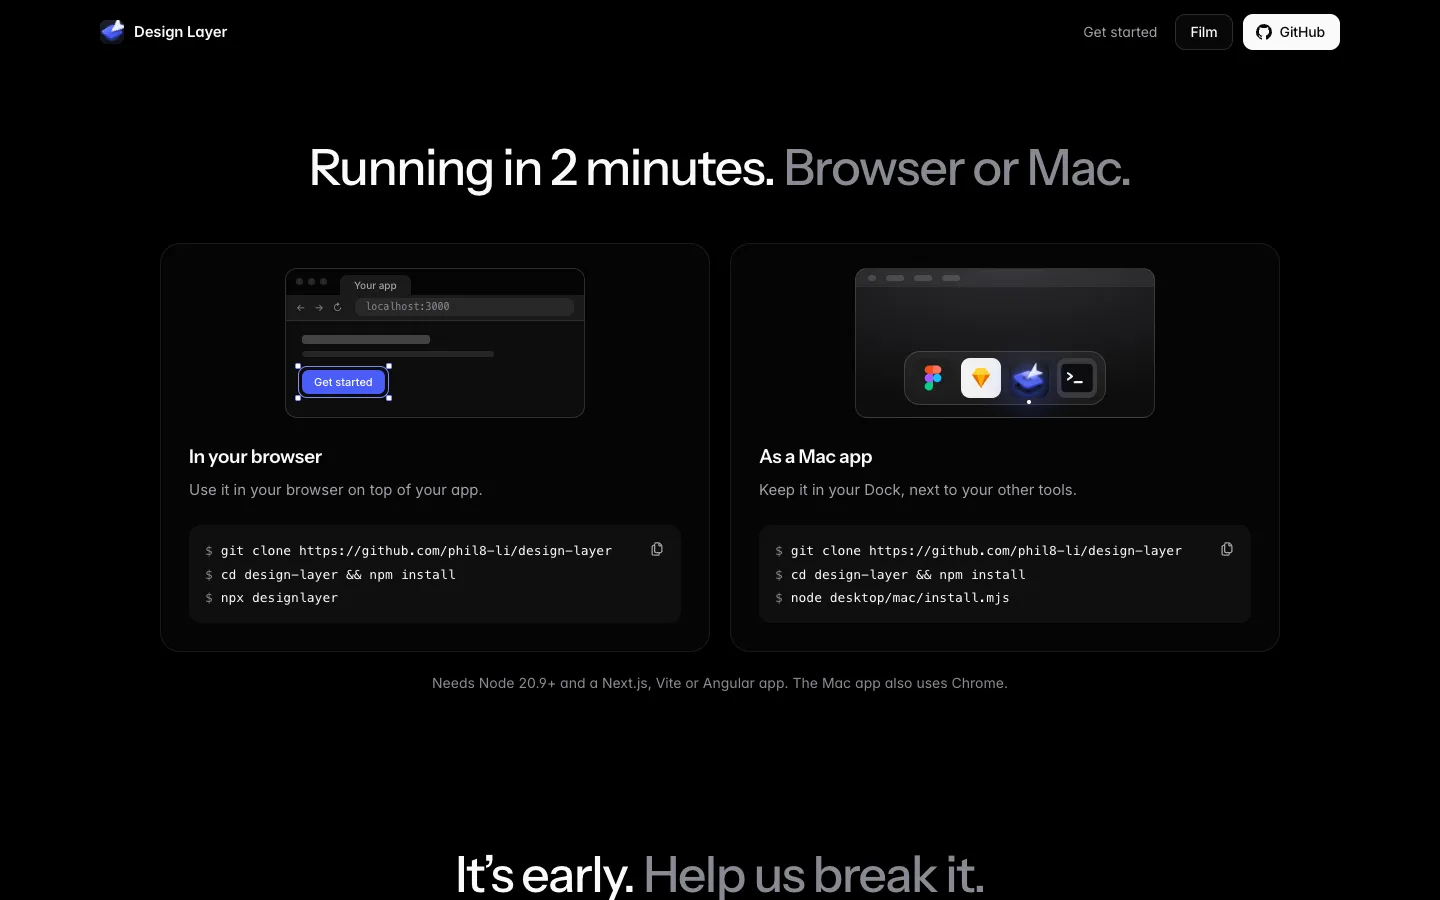
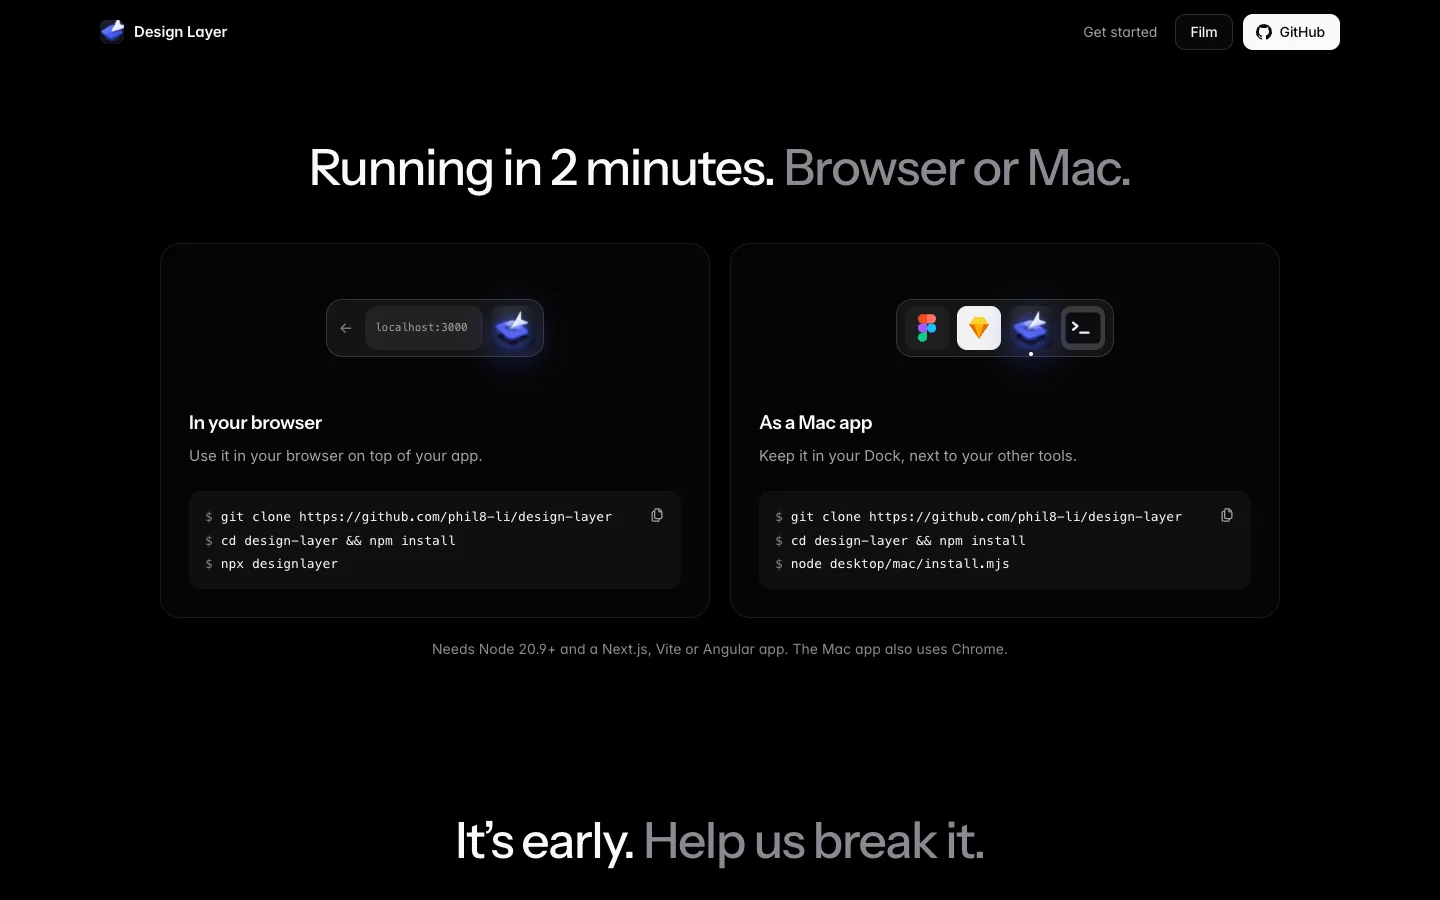
Get started pictures are two matching bars: a browser toolbar and the Dock
The browser card's window mock read as busy, and the Mac card's desktop
frame only added space around the Dock. Each card now opens on one bar
of the same size, with Design Layer lit in both: a browser toolbar
(back, localhost:3000, Design Layer, which pops in) and the Dock with
Figma, Sketch, Design Layer and Terminal, where it bounces once.

The Dock's running dot never appeared: a higher-specificity rule kept it
hidden after the scene arrived. It now shows once the bounce ends.

AI-assisted (CloudCode).

diff --git a/landing/styles.css b/landing/styles.css
@@ -1538,182 +1538,55 @@ h2 {
 .path-scene {
   display: grid;
   place-items: center;
-  height: 150px;
-  margin: -4px 0 24px;
+  height: 112px;
+  margin-bottom: 24px;
 }
 
-/* Same-size frames: a browser tab with a selection, a Mac desktop's Dock. */
-.mini-window {
-  display: flex;
-  flex-direction: column;
-  width: min(100%, 300px);
-  height: 150px;
-  overflow: hidden;
-  border: 1px solid var(--line-strong);
-  border-radius: 12px;
-  background: #0d0d0d;
-}
-
-.mini-bar {
-  display: flex;
-  align-items: center;
-  gap: 5px;
-  height: 26px;
-  padding: 0 10px;
-  background: #050505;
-}
-
-.mini-bar.is-tools,
-.mini-tab {
-  background: #1a1a1a;
-}
-
-.mini-bar.is-tools {
-  gap: 10px;
-  border-bottom: 1px solid var(--line);
-}
-
-.mini-tab {
-  align-self: end;
-  margin-left: 8px;
-  padding: 4px 14px;
-  border-radius: 7px 7px 0 0;
-  color: var(--text-2);
-  font: 500 10px/1.2 var(--font);
-}
-
-.mini-nav {
-  color: var(--text-3);
-  font-size: 10px;
-  letter-spacing: 3px;
-}
-
-.mini-bar i {
-  width: 7px;
-  height: 7px;
-  border-radius: 50%;
-  background: var(--line-strong);
-}
-
-.mini-url {
-  flex: 1;
-  padding: 2px 10px;
-  border-radius: 6px;
-  background: rgb(255 255 255 / 0.06);
-  color: var(--text-3);
-  font: 10px/1.4 var(--mono);
-}
-
-.mini-page {
-  display: grid;
-  justify-items: start;
-  gap: 7px;
-  padding: 14px 16px 16px;
-}
-
-.mini-line {
-  width: 72%;
-  height: 6px;
-  border-radius: 3px;
-  background: rgb(255 255 255 / 0.1);
-}
-
-.mini-line.is-title {
-  width: 48%;
-  height: 9px;
-  background: rgb(255 255 255 / 0.22);
-}
-
-.mini-button {
-  position: relative;
-  margin-top: 6px;
-  padding: 5px 12px;
-  border-radius: 7px;
-  background: var(--accent-fill);
-  color: #fff;
-  font: 500 11px/1.3 var(--font);
-}
-
-.mini-select {
-  position: absolute;
-  inset: -4px;
-  border: 1.5px solid var(--accent);
-  border-radius: 9px;
-}
-
-.mini-select b {
-  position: absolute;
-  width: 6px;
-  height: 6px;
-  border: 1.5px solid var(--accent);
-  border-radius: 2px;
-  background: #fff;
-}
-
-.mini-select b:nth-child(-n + 2) { top: -4px; }
-.mini-select b:nth-child(n + 3) { bottom: -4px; }
-.mini-select b:nth-child(odd) { left: -4px; }
-.mini-select b:nth-child(even) { right: -4px; }
-
-.js .scene-browser .mini-select {
-  opacity: 0;
-  transform: scale(1.12);
-  transition: 450ms var(--ease-out) 350ms;
-  transition-property: opacity, transform;
-}
-
-.scene-browser.is-in .mini-select {
-  opacity: 1;
-  transform: none;
-}
-
-.is-mac {
-  align-items: center;
-  background: radial-gradient(120% 90% at 50% 0%, #2a2a2e, #0d0d0d);
-}
-
-.mini-menu {
-  display: flex;
-  align-self: stretch;
-  gap: 10px;
-  height: 18px;
-  padding: 6px 12px;
-  background: rgb(255 255 255 / 0.06);
-}
-
-.mini-menu i {
-  width: 18px;
-  border-radius: 3px;
-  background: var(--line-strong);
-}
-
-.mini-menu i:first-child {
-  width: 8px;
-}
-
-/* The Dock icon bounces once, as at launch. */
+/* Two matching bars, Design Layer lit in each: a browser toolbar, where it
+   pops in beside your app's address, and the Dock, where it bounces at launch. */
+.mini-bar,
 .mini-dock {
   display: flex;
-  align-items: flex-end;
+  align-items: center;
   gap: 8px;
-  margin: auto 0 12px;
   padding: 6px 8px;
   border: 1px solid var(--line-strong);
   border-radius: 16px;
   background: rgb(255 255 255 / 0.06);
 }
 
+.bar-nav {
+  width: 22px;
+  color: var(--text-3);
+  font-size: 15px;
+  text-align: center;
+}
+
+.bar-url {
+  display: grid;
+  align-items: center;
+  width: 118px;
+  height: 44px;
+  padding: 0 10px;
+  border-radius: 12px;
+  background: rgb(255 255 255 / 0.06);
+  color: var(--text-2);
+  font: 11px var(--mono);
+}
+
 .dock-icon,
+.bar-app,
 .dock-app img {
   display: block;
-  width: 40px;
-  height: 40px;
+  width: 44px;
+  height: 44px;
 }
 
 .dock-app {
   position: relative;
 }
 
+.bar-app,
 .dock-app img {
   filter: drop-shadow(0 8px 16px rgb(74 93 249 / 0.35));
 }
@@ -1734,6 +1607,18 @@ h2 {
   transition: opacity 300ms var(--ease-out) 1300ms;
 }
 
+.js .scene-browser .bar-app {
+  opacity: 0;
+  scale: 0.6;
+  transition: 500ms cubic-bezier(0.34, 1.56, 0.64, 1) 400ms;
+  transition-property: opacity, scale;
+}
+
+.scene-browser.is-in .bar-app {
+  opacity: 1;
+  scale: 1;
+}
+
 .scene-mac.is-in .dock-app img {
   animation: dock-bounce 1000ms var(--ease-out) 300ms both;
 }
@@ -1744,7 +1629,7 @@ h2 {
 
 @keyframes dock-bounce {
   0%, 100% { translate: 0 0; }
-  25% { translate: 0 -16px; }
+  25% { translate: 0 -18px; }
   50% { translate: 0 0; }
   70% { translate: 0 -8px; }
   85% { translate: 0 0; }

diff --git a/landing/index.html b/landing/index.html
@@ -321,14 +321,10 @@ Loading…</code><code data-agent-close hidden></code></pre>
         <div class="paths visual" data-reveal>
           <section class="path" aria-labelledby="path-browser">
             <div class="path-scene scene-browser" data-arrive aria-hidden="true">
-              <div class="mini-window">
-                <div class="mini-bar"><i></i><i></i><i></i><span class="mini-tab">Your app</span></div>
-                <div class="mini-bar is-tools"><span class="mini-nav">← → ↻</span><span class="mini-url">localhost:3000</span></div>
-                <div class="mini-page">
-                  <span class="mini-line is-title"></span>
-                  <span class="mini-line"></span>
-                  <span class="mini-button">Get started<span class="mini-select"><b></b><b></b><b></b><b></b></span></span>
-                </div>
+              <div class="mini-bar">
+                <span class="bar-nav">←</span>
+                <span class="bar-url">localhost:3000</span>
+                <img class="bar-app" src="assets/brand/icon-192.png" width="44" height="44" alt="">
               </div>
             </div>
             <h3 id="path-browser">In your browser</h3>
@@ -343,14 +339,11 @@ Loading…</code><code data-agent-close hidden></code></pre>
           </section>
           <section class="path" aria-labelledby="path-mac">
             <div class="path-scene scene-mac" data-arrive aria-hidden="true">
-              <div class="mini-window is-mac">
-                <div class="mini-menu"><i></i><i></i><i></i><i></i></div>
-                <div class="mini-dock">
-                  <img class="dock-icon" src="assets/dock/figma.svg" width="48" height="48" alt="">
-                  <img class="dock-icon" src="assets/dock/sketch.svg" width="48" height="48" alt="">
-                  <span class="dock-icon dock-app"><img src="assets/brand/icon-192.png" width="48" height="48" alt=""><i class="dock-dot"></i></span>
-                  <img class="dock-icon" src="assets/dock/terminal.svg" width="48" height="48" alt="">
-                </div>
+              <div class="mini-dock">
+                <img class="dock-icon" src="assets/dock/figma.svg" width="44" height="44" alt="">
+                <img class="dock-icon" src="assets/dock/sketch.svg" width="44" height="44" alt="">
+                <span class="dock-icon dock-app"><img src="assets/brand/icon-192.png" width="44" height="44" alt=""><i class="dock-dot"></i></span>
+                <img class="dock-icon" src="assets/dock/terminal.svg" width="44" height="44" alt="">
               </div>
             </div>
             <h3 id="path-mac">As a Mac app</h3>

diff --git a/landing/DESIGN.md b/landing/DESIGN.md
@@ -22,7 +22,7 @@ who set it. A newer statement replaces the older line.
 
 ## Story
 
-- Get started: the two cards are twins. Each opens on a same-size frame (300 by 150): a browser, with a tab, address bar and one selected element, for In your browser; a Mac desktop with a menu bar and a Dock of Figma, Sketch, Design Layer (third) and Terminal for As a Mac app. Then a title, one line and the commands. Scope: index.html `#start`, styles.css `.mini-window`. Source: Phil, 2026-10-07.
+- Get started: the two cards are twins. Each opens on a bar of the same size (218 by 58), Design Layer lit in both: a browser toolbar (back, `localhost:3000`, Design Layer) for In your browser, and a Dock of Figma, Sketch, Design Layer (third) and Terminal for As a Mac app. No window or desktop frame around either. Then a title, one line and the commands. Scope: index.html `#start`, styles.css `.mini-bar`, `.mini-dock`. Source: Phil, 2026-10-07.
 - Section order: after the hero comes Design like Figma, then the design system, then the board, then working with an agent, then the rest. Each section teaches one more capability on top of the hero's promise; there is no section between the hero and Design like Figma. Scope: index.html. Source: Phil, 2026-10-05.
 - A tabbed section only holds tabs that prove its headline. A feature that serves another section's promise moves there (Design options lives in the agent section as Compare); one that serves none is cut (Shortcuts, Responsive, Light theme and Live preview left Design like Figma). Scope: index.html. Source: Phil, 2026-10-05.
 - Headlines name the value plainly; no contrast phrases that need decoding ("Not ours" was cut). Scope: index.html. Source: Phil, 2026-10-05.
